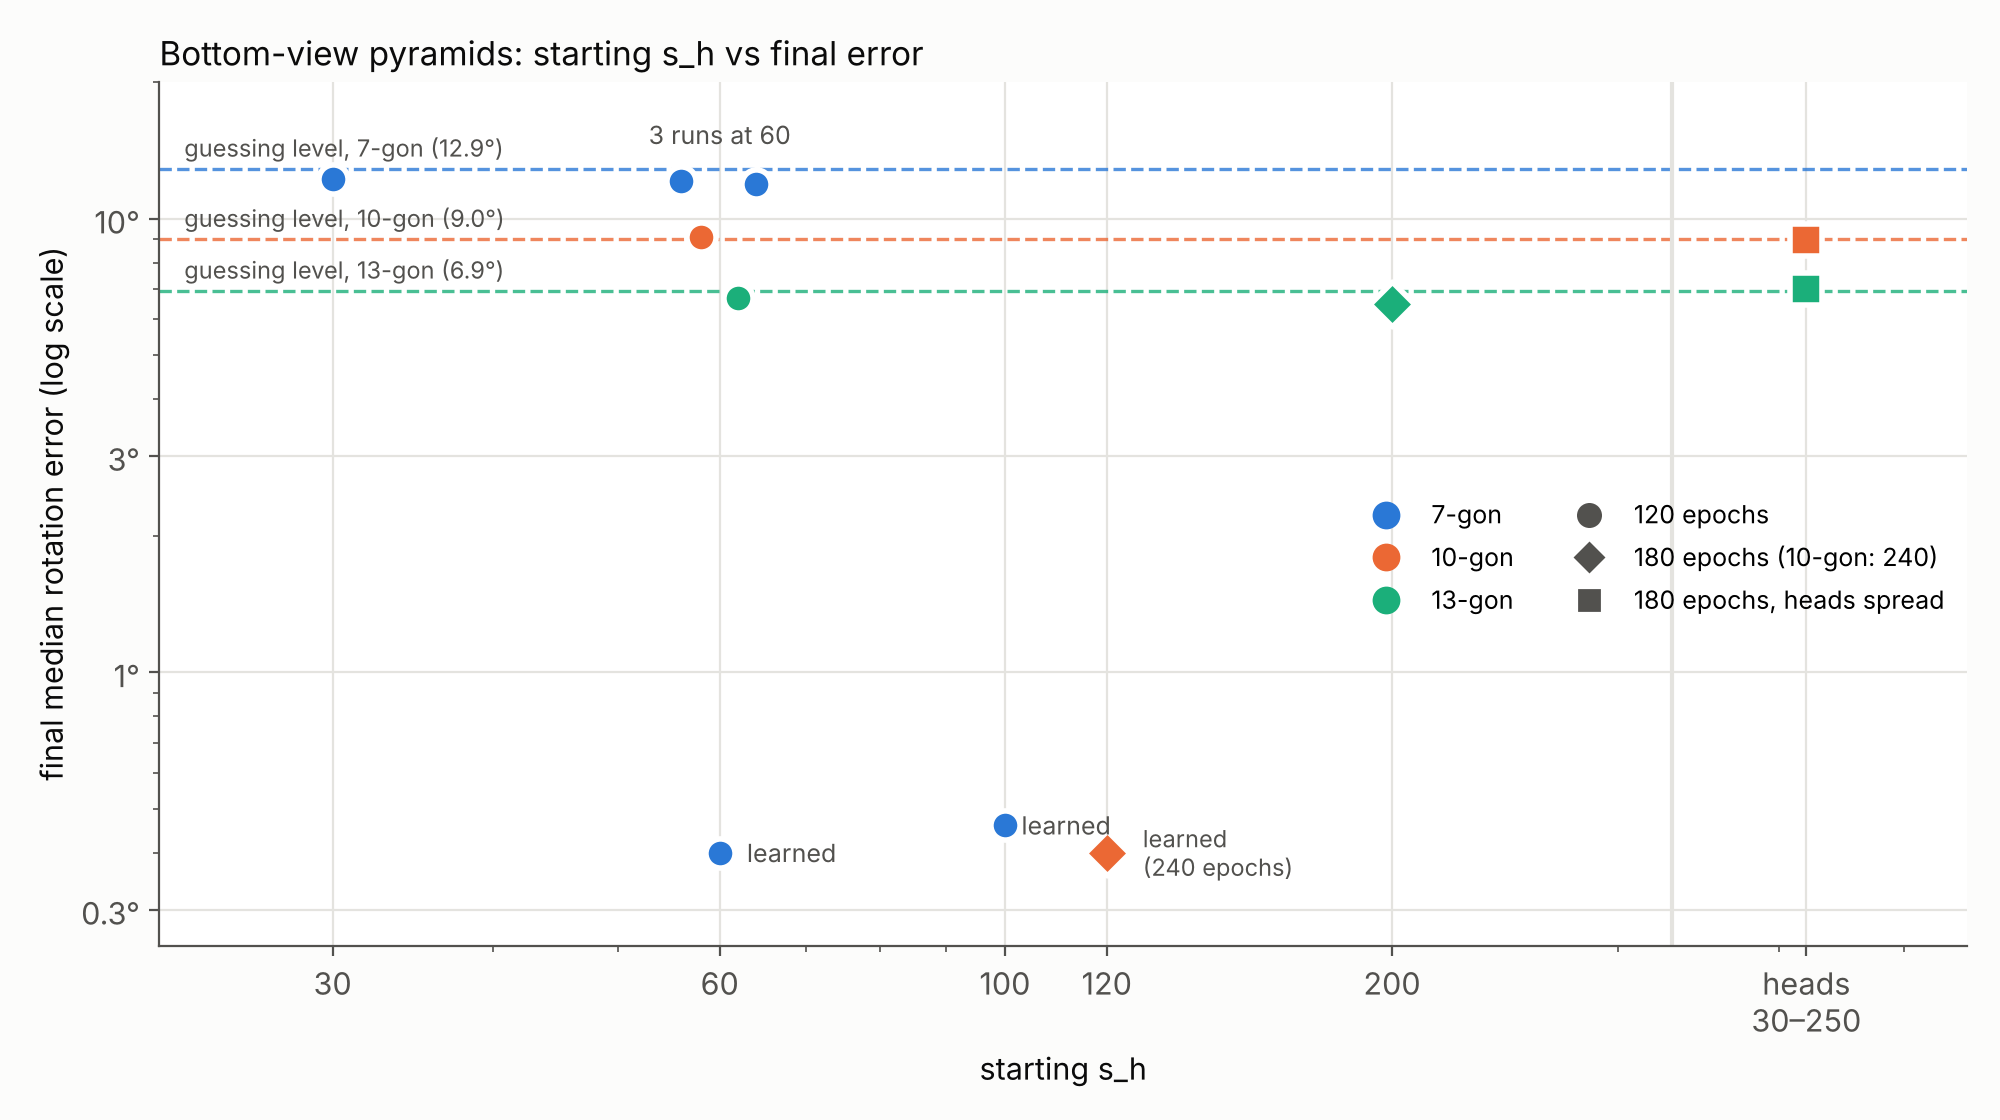
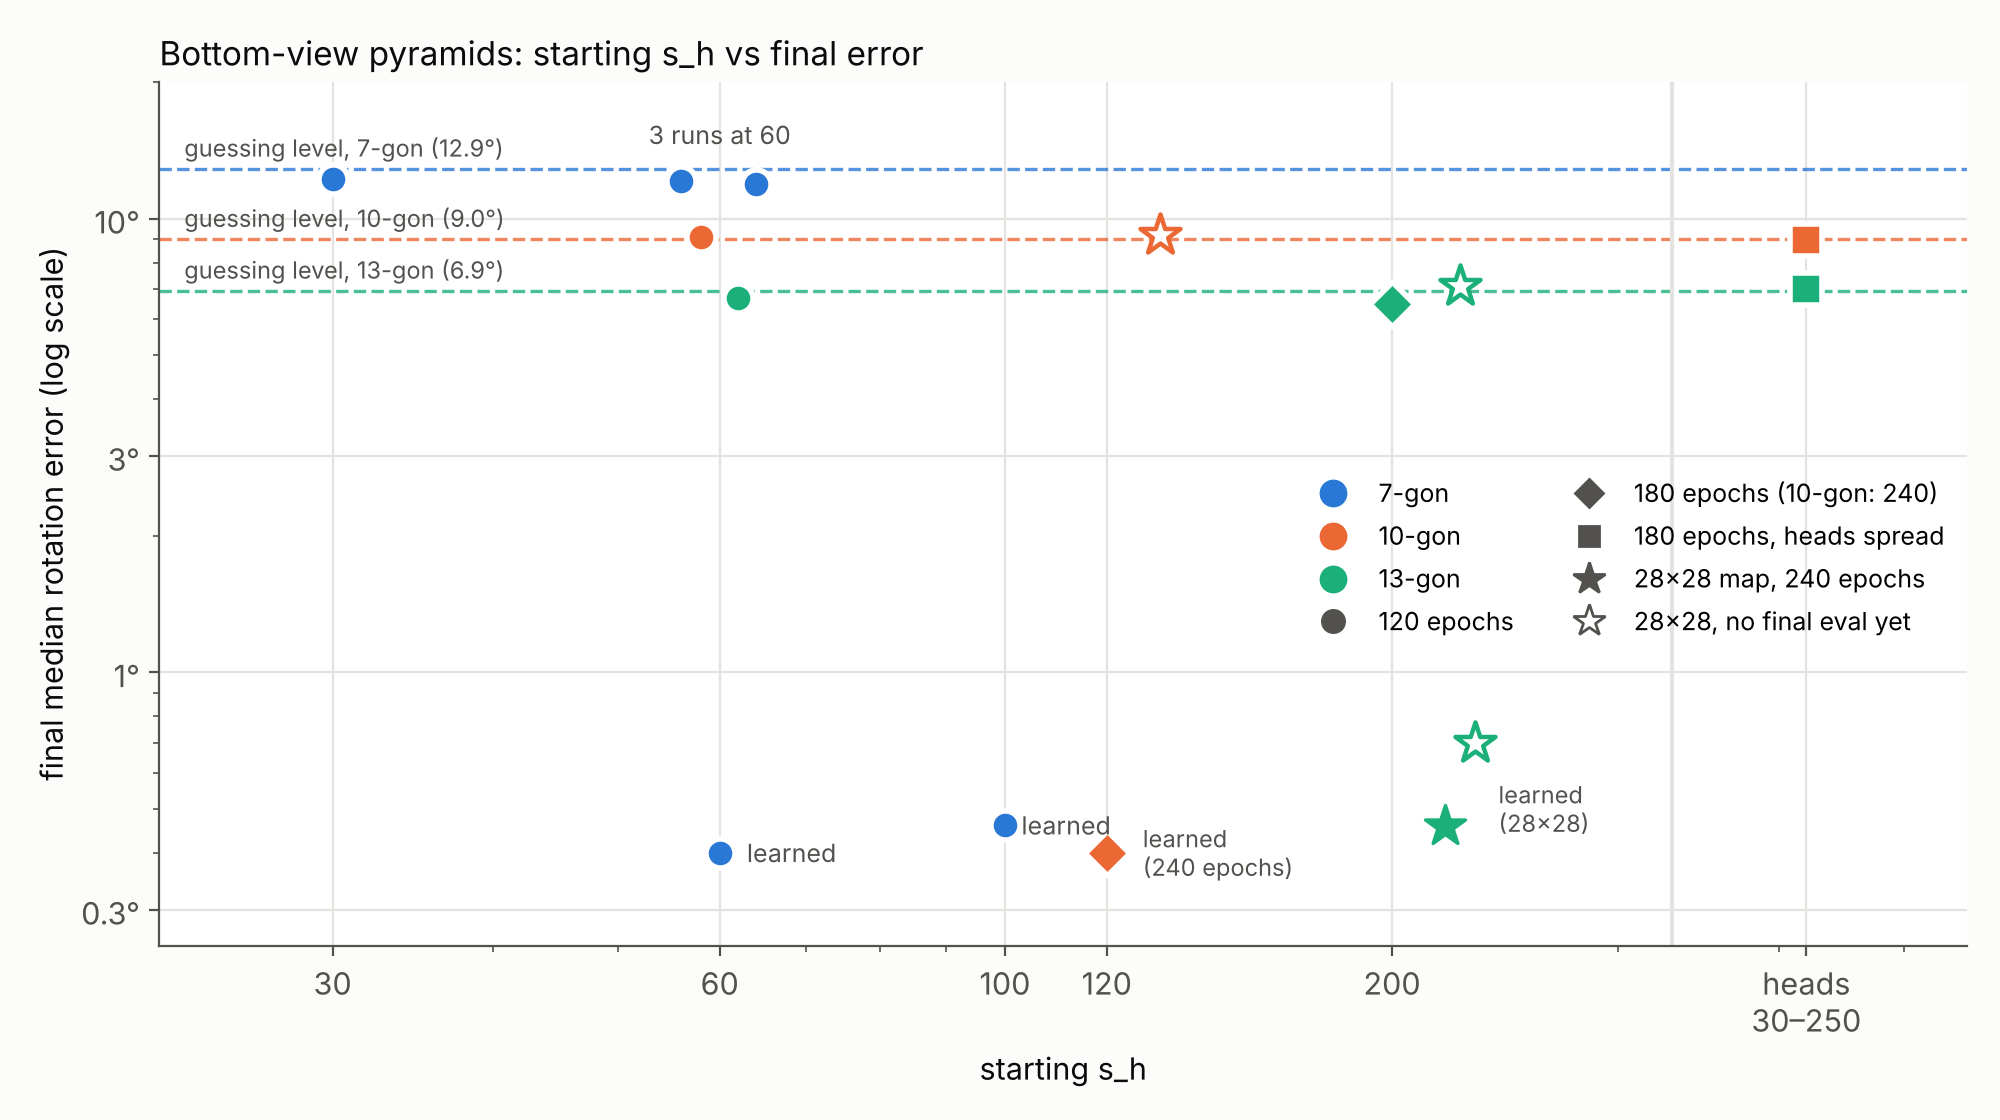
cosdir: 3D sphere picture of the vMF windows; 28x28 runs in the s_h vs error figure
Claude-Session: https://claude.ai/code/session_01CjS2ebrnSKXBxxPg7a3mE2

diff --git a/pose3d/probes/cosdir_interp/viz3d_plot.py b/pose3d/probes/cosdir_interp/viz3d_plot.py
@@ -1,0 +1,48 @@
+"""3D picture of the von Mises-Fisher window logic from the arrays of viz3d_compute.py (env PANELS="label|file.npz;...",
+OUT). Per model (row):
+  left:  the image tokens on the hemisphere (the optical axis points up), coloured by the turn-following feature: a
+         learned model shows an n-lobed ring that turns with the object;
+  right: the ring-reading head's attention window (the pose token's weights over the image tokens, a soft spotlight of
+         width set by s_h) for pose hypotheses turned by 0, 1/4, 1/2, 3/4 of the period 360/n, with an arrow to the
+         direction each window picks out; the window is fixed in the object's frame, so it slides along the ring with
+         the hypothesis and samples the lobes."""
+import os, numpy as np, matplotlib
+matplotlib.use("Agg"); import matplotlib.pyplot as plt
+
+SLIDE = ["#2a78d6", "#1baf7a", "#eda100", "#e34948"]
+
+def sphere(ax):
+    u, v = np.mgrid[0:2 * np.pi:60j, 0:np.pi / 2:20j]
+    ax.plot_surface(np.cos(u) * np.sin(v), np.sin(u) * np.sin(v), np.cos(v), color="#d9d8d3", alpha=0.10, linewidth=0, shade=False)
+    for z in (np.cos(np.radians(30)), np.cos(np.radians(60))):     # rings at 30 and 60 deg from the axis
+        t = np.linspace(0, 2 * np.pi, 100); r = np.sqrt(1 - z * z)
+        ax.plot(r * np.cos(t), r * np.sin(t), z, color="#bdbcb6", lw=0.6)
+    t = np.linspace(0, 2 * np.pi, 100); ax.plot(np.cos(t), np.sin(t), 0 * t, color="#bdbcb6", lw=0.8)
+    ax.quiver(0, 0, 0, 0, 0, 1.25, color="#52514e", lw=1, arrow_length_ratio=0.08)
+    ax.text(0, 0, 1.32, "optical axis", fontsize=7, color="#52514e", ha="center")
+    ax.set_xlim(-1, 1); ax.set_ylim(-1, 1); ax.set_zlim(0, 1.3)
+    ax.set_box_aspect((2, 2, 1.3)); ax.view_init(elev=52, azim=-60); ax.set_axis_off()
+
+def panel(axL, axR, label, f):
+    d = np.load(f); p, dev, slide = d["pts"], d["dev"], d["slide"]; n = int(d["n"]); h, b = int(d["ring_head"]), int(d["ring_block"])
+    v = np.abs(dev).max()
+    sphere(axL)
+    axL.scatter(p[:, 0], p[:, 1], p[:, 2], c=dev, cmap="RdBu_r", vmin=-v, vmax=v, s=10 + 60 * np.abs(dev) / v, depthshade=False, linewidths=0)
+    axL.set_title(f"{label}\nturn-following feature on the tokens (frequency {n})", fontsize=9, loc="left")
+    sphere(axR)
+    axR.scatter(p[:, 0], p[:, 1], p[:, 2], c=dev, cmap="RdBu_r", vmin=-v, vmax=v, s=6 + 30 * np.abs(dev) / v, alpha=0.3, depthshade=False, linewidths=0)
+    for k in range(4):
+        w = slide[k] / slide[k].max(); top = w > 0.15
+        axR.scatter(p[top, 0], p[top, 1], p[top, 2], color=SLIDE[k], s=15 + 110 * w[top], alpha=0.85, edgecolors="white", depthshade=False, linewidths=0.5)
+        c = (slide[k][:, None] * p).sum(0); c = c / np.linalg.norm(c)            # direction the window picks out
+        axR.quiver(0, 0, 0, *c, color=SLIDE[k], lw=1.6, arrow_length_ratio=0.1)
+    axR.set_title(f"head {h} of block {b} (s_h {float(d['s_h'][h]):.0f}): its window as the pose hypothesis turns\n"
+                  f"by 0, 1/4, 1/2, 3/4 of {360 / n:.1f} deg (blue, green, yellow, red)", fontsize=9, loc="left")
+
+if __name__ == "__main__":
+    rows = [r.split("|") for r in os.environ["PANELS"].split(";")]
+    fig = plt.figure(figsize=(12, 5.0 * len(rows)))
+    for i, (lab, f) in enumerate(rows):
+        panel(fig.add_subplot(len(rows), 2, 2 * i + 1, projection="3d"), fig.add_subplot(len(rows), 2, 2 * i + 2, projection="3d"), lab, f)
+    fig.subplots_adjust(left=0.01, right=0.99, top=0.97, bottom=0.01, wspace=0.0, hspace=0.06)
+    fig.savefig(os.environ["OUT"], dpi=140, facecolor="white"); print(os.environ["OUT"])

diff --git a/pose3d/probes/cosdir_interp/viz3d_compute.py b/pose3d/probes/cosdir_interp/viz3d_compute.py
@@ -1,0 +1,53 @@
+"""Data for the 3D picture of the von Mises-Fisher window logic (viz3d_plot.py). For one checkpoint (env CKPT, NGON,
+COSDIR_SNAPSHOT, BDATA, EXTRA_ARGS) and test image 0 it saves to OUT (.npz):
+  pts (P, 3)      the image tokens' directions on the hemisphere (z = optical axis);
+  dev (P,)        the turn-following token feature for this image: the scalar channel with the largest frequency-n
+                  component that turns with the object (over 300 test images), minus its mean;
+  W (B, H, P)     the pose token's attention weights over the image tokens, every block B and head H, at the true pose;
+  ring_block, ring_head  the head with the most weight on the ring where the n-lobed pattern lives (20-65 deg);
+  slide (4, P)    that head's weights for pose hypotheses turned about the optical axis by 0, 1/4, 1/2, 3/4 of 360/n;
+  s_h (H,)        that block's inverse temperatures; turn, n."""
+import os, sys, math
+os.environ.setdefault("COSDIR_DATA", "/nonexistent")
+sys.path.insert(0, os.path.dirname(os.path.abspath(__file__)))
+import numpy as np, torch
+from PIL import Image
+import lib
+from probe import pose_tokens, stream
+from attn import parts
+
+D, n, NIMG = os.environ["BDATA"], int(os.environ["NGON"]), 300
+lib.CKPT = os.environ["CKPT"]; torch.set_num_threads(4)
+m = lib.load_model(fused=False)
+rots = np.load(D + "/test/rotations.npz")[f"pyr{n}"][:NIMG]
+theta = np.arctan2(rots[:, 0, 1, 0], rots[:, 0, 0, 0])
+with torch.no_grad():
+    cond = torch.cat([m.condition(torch.from_numpy(np.stack([np.asarray(Image.open(D + f"/test/images/pyr{n}_{j:05d}.png").convert("RGB"))
+                      for j in range(i, min(i + 25, NIMG))])).permute(0, 3, 1, 2).float() / 255) for i in range(0, NIMG, 25)])
+P = cond.shape[1] - 1; pts = cond[0, :P, 1:4].numpy(); sig = cond[:, :P, 8:72].double().numpy()
+coh = (sig * np.exp(1j * n * theta)[:, None, None]).mean(0)
+ch = int(np.abs(coh).sum(0).argmax()); img = 0
+dev = sig[img, :, ch] - sig[:, :, ch].mean(0)
+
+def rz(phi):
+    c, s = math.cos(phi), math.sin(phi)
+    return torch.tensor([[c, -s, 0.], [s, c, 0.], [0., 0., 1.]])
+
+def weights(R):
+    out = []
+    hooks = [a.register_forward_pre_hook(lambda mod, args, out=out: out.append(parts(mod, args[0], args[1], args[3], args[4])))
+             for a in m.vector_field.angular_attention]
+    with torch.no_grad():
+        stream(m.vector_field, pose_tokens(R[None]), torch.full((1,), 0.9), cond[img:img + 1].float())
+    for h in hooks: h.remove()
+    return np.stack([(o[0] + o[1] + o[2]).softmax(-1)[0, :, 0, 1:P + 1].numpy() for o in out])
+
+R0 = torch.from_numpy(rots[img, 0].astype(np.float32))
+W = weights(R0)
+pol = np.degrees(np.arccos(np.clip(pts[:, 2], -1, 1))); ring = (pol >= 20) & (pol <= 65)
+score = W[:, :, ring].sum(-1); b, h = np.unravel_index(score.argmax(), score.shape)
+slide = np.stack([weights(rz(2 * math.pi / n * f) @ R0)[b, h] for f in (0, 0.25, 0.5, 0.75)])
+s_h = m.vector_field.angular_attention[int(b)].log_scale.exp().clamp(max=1000).detach().numpy()
+np.savez(os.environ["OUT"], pts=pts, dev=dev, W=W, ring_block=int(b), ring_head=int(h), slide=slide, s_h=s_h,
+         turn=float(theta[img]), n=n, ring_share=float(score[b, h]))
+print("saved", os.environ["OUT"], "block", int(b), "head", int(h), "ring share %.2f" % score[b, h])

diff --git a/pose3d/probes/cosdir_interp/plot_s_h_vs_mre.py b/pose3d/probes/cosdir_interp/plot_s_h_vs_mre.py
@@ -1,6 +1,7 @@
 """Final median rotation error against the start value of s_h, per pyramid (bottom views; 14x14 map, 368 sphere points,
 constant rate, 120 or 180 epochs, final 32-sample evaluation). Dashed lines: the error of a model that knows everything but the
-turn (90/n degrees). Writes ../../reports/figures/cosdir_s_h_vs_mre.png."""
+turn (90/n degrees). Stars: the 28x28 feature map (last two ResNet stages dilated), 240 epochs; hollow = no final
+evaluation yet (last per-epoch validation median). Writes ../../reports/figures/cosdir_s_h_vs_mre.png."""
 import os, matplotlib
 matplotlib.use("Agg"); import matplotlib.pyplot as plt, matplotlib.ticker as mt
 C = {7: "#2a78d6", 10: "#eb6834", 13: "#1baf7a"}
@@ -10,6 +11,9 @@ RUNS = [(7, 30, 12.21), (7, 60, 0.40), (7, 60, 12.12), (7, 60, 11.91), (7, 100, 
 # 180-epoch runs (2026-11-21): one shared start value, and heads log-spaced from 30 to 250 in every block
 LONG = [(10, 120, 0.40), (13, 200, 6.49)]
 SPREAD = [(10, 8.99), (13, 6.98)]
+# 28x28 map, 240 epochs: (sides, start s_h, error, final?, x offset). Hollow star: no final evaluation (seed 1 stopped at epoch 145;
+# the others still running, last per-epoch median, epoch ~220 of 240)
+G28 = [(13, 200, 0.458, True, 1.10), (13, 200, 0.70, False, 1.16), (13, 200, 7.10, False, 1.13), (10, 120, 9.20, False, 1.10)]
 JIT = {(7, 60, 12.12): -4, (7, 60, 11.91): 4, (10, 60, 9.11): -2, (13, 60, 6.68): 2}
 plt.rcParams.update({"font.size": 11, "axes.edgecolor": INK2, "xtick.color": INK2, "ytick.color": INK2, "axes.labelcolor": INK})
 fig, ax = plt.subplots(figsize=(10, 5.6))
@@ -21,6 +25,9 @@ for n, s, e in RUNS:
 for n, s, e in LONG:
     ax.scatter(s, e, s=130, marker="D", color=C[n], edgecolor="white", linewidth=2, zorder=3)
 ax.text(128, 0.40, "learned\n(240 epochs)", va="center", fontsize=8.5, color=INK2)
+for n, s, e, fin, dx in G28:
+    ax.scatter(s * dx, e, s=230, marker="*", color=C[n] if fin else "white", edgecolor=C[n], linewidth=1.6 if not fin else 1.2, zorder=4)
+ax.text(200 * 1.21, 0.5, "learned\n(28×28)", va="center", fontsize=8.5, color=INK2)
 XS = 420   # separate column for the spread runs (no single starting value)
 ax.axvline(330, color=GRID, lw=1.5)
 for n, e in SPREAD:
@@ -39,7 +46,8 @@ for sp in ("top", "right"): ax.spines[sp].set_visible(False)
 from matplotlib.lines import Line2D
 ax.legend(handles=[Line2D([], [], marker="o", ls="", color=C[n], ms=9, label=f"{n}-gon") for n in (7, 10, 13)]
           + [Line2D([], [], marker="o", ls="", color=INK2, ms=8, label="120 epochs"), Line2D([], [], marker="D", ls="", color=INK2, ms=7, label="180 epochs (10-gon: 240)"),
-             Line2D([], [], marker="s", ls="", color=INK2, ms=7, label="180 epochs, heads spread")],
+             Line2D([], [], marker="s", ls="", color=INK2, ms=7, label="180 epochs, heads spread"),
+             Line2D([], [], marker="*", ls="", color=INK2, ms=12, label="28×28 map, 240 epochs"), Line2D([], [], marker="*", ls="", mfc="white", mec=INK2, ms=12, label="28×28, no final eval yet")],
           loc="center right", bbox_to_anchor=(1.0, 0.45), frameon=False, fontsize=9, ncol=2)
 ax.set_title("Bottom-view pyramids: starting s_h vs final error", loc="left", color=INK, fontsize=12)
 fig.tight_layout()

diff --git a/pose3d/reports/cosdir_summary.md b/pose3d/reports/cosdir_summary.md
@@ -14,7 +14,7 @@ resolve the turn guesses and has median error about 90/n degrees (the "guessing 
   kappa about 0.4 s_h), and it passes an n-fold pattern with weight a_n = i_n(kappa) / i_0(kappa).
 * A model that learns the turn of an n-gon shows an n-lobed pattern on rings of image tokens that turns with the object,
   and a few pose-token heads whose narrow windows sit on that ring and slide along it as the pose hypothesis turns
-  (`figures/cosdir_vmf_windows.png`, `figures/cosdir_vmf_windows_13gon_grid28.png`). Most heads look elsewhere.
+  (`figures/cosdir_vmf_windows_3d.png`: tokens on the hemisphere, and one ring-reading head's window for four pose hypotheses). Most heads look elsewhere.
 
 ## What was learned
 
